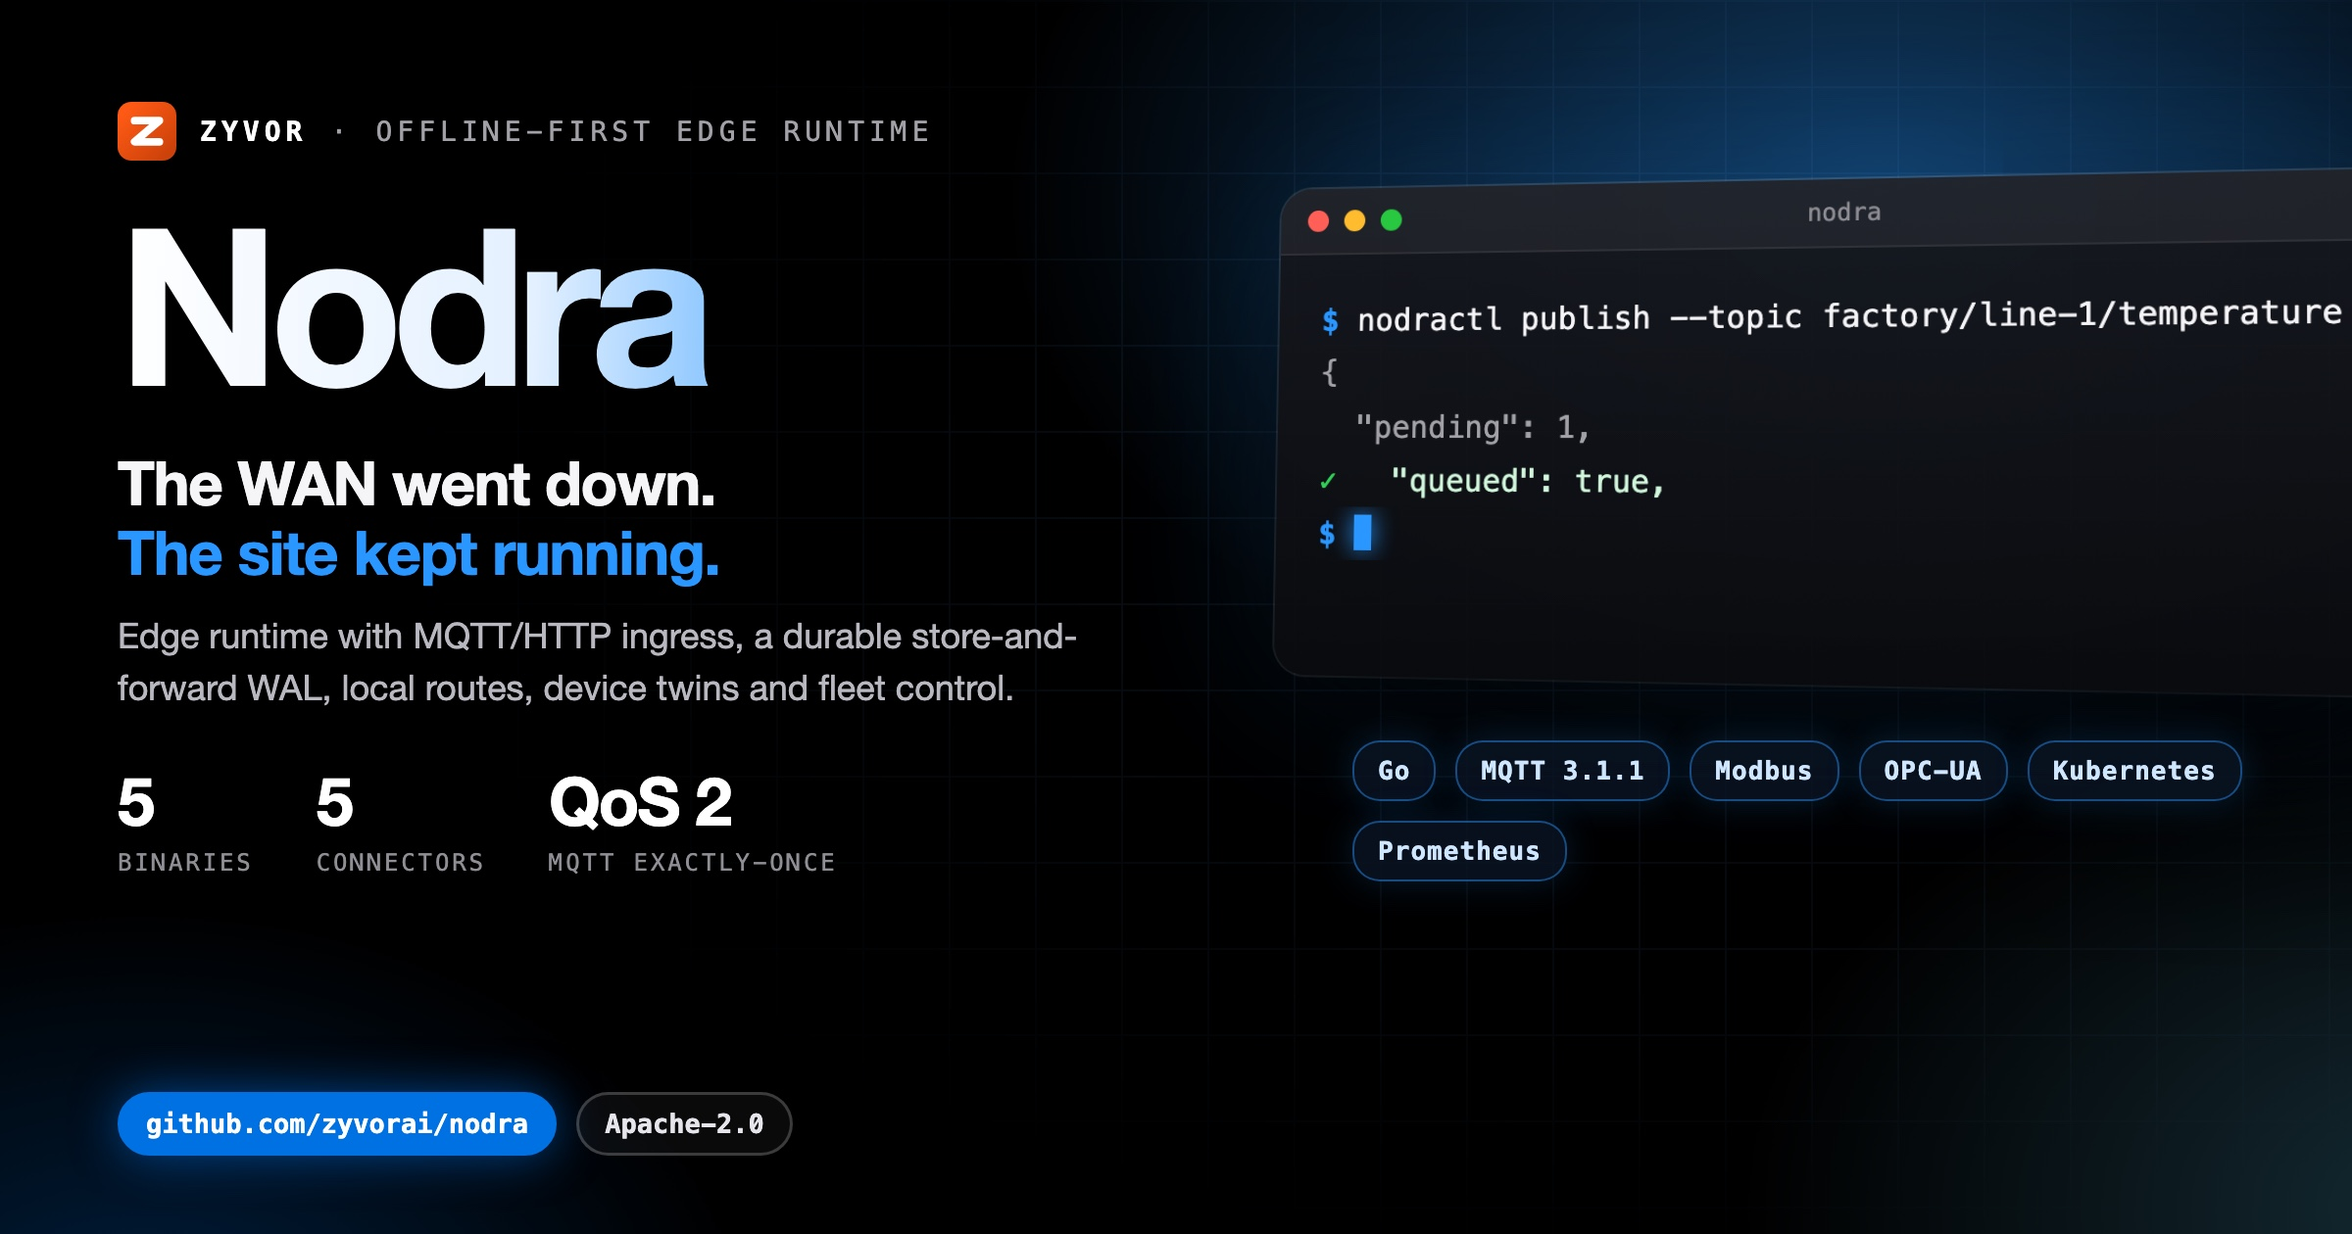
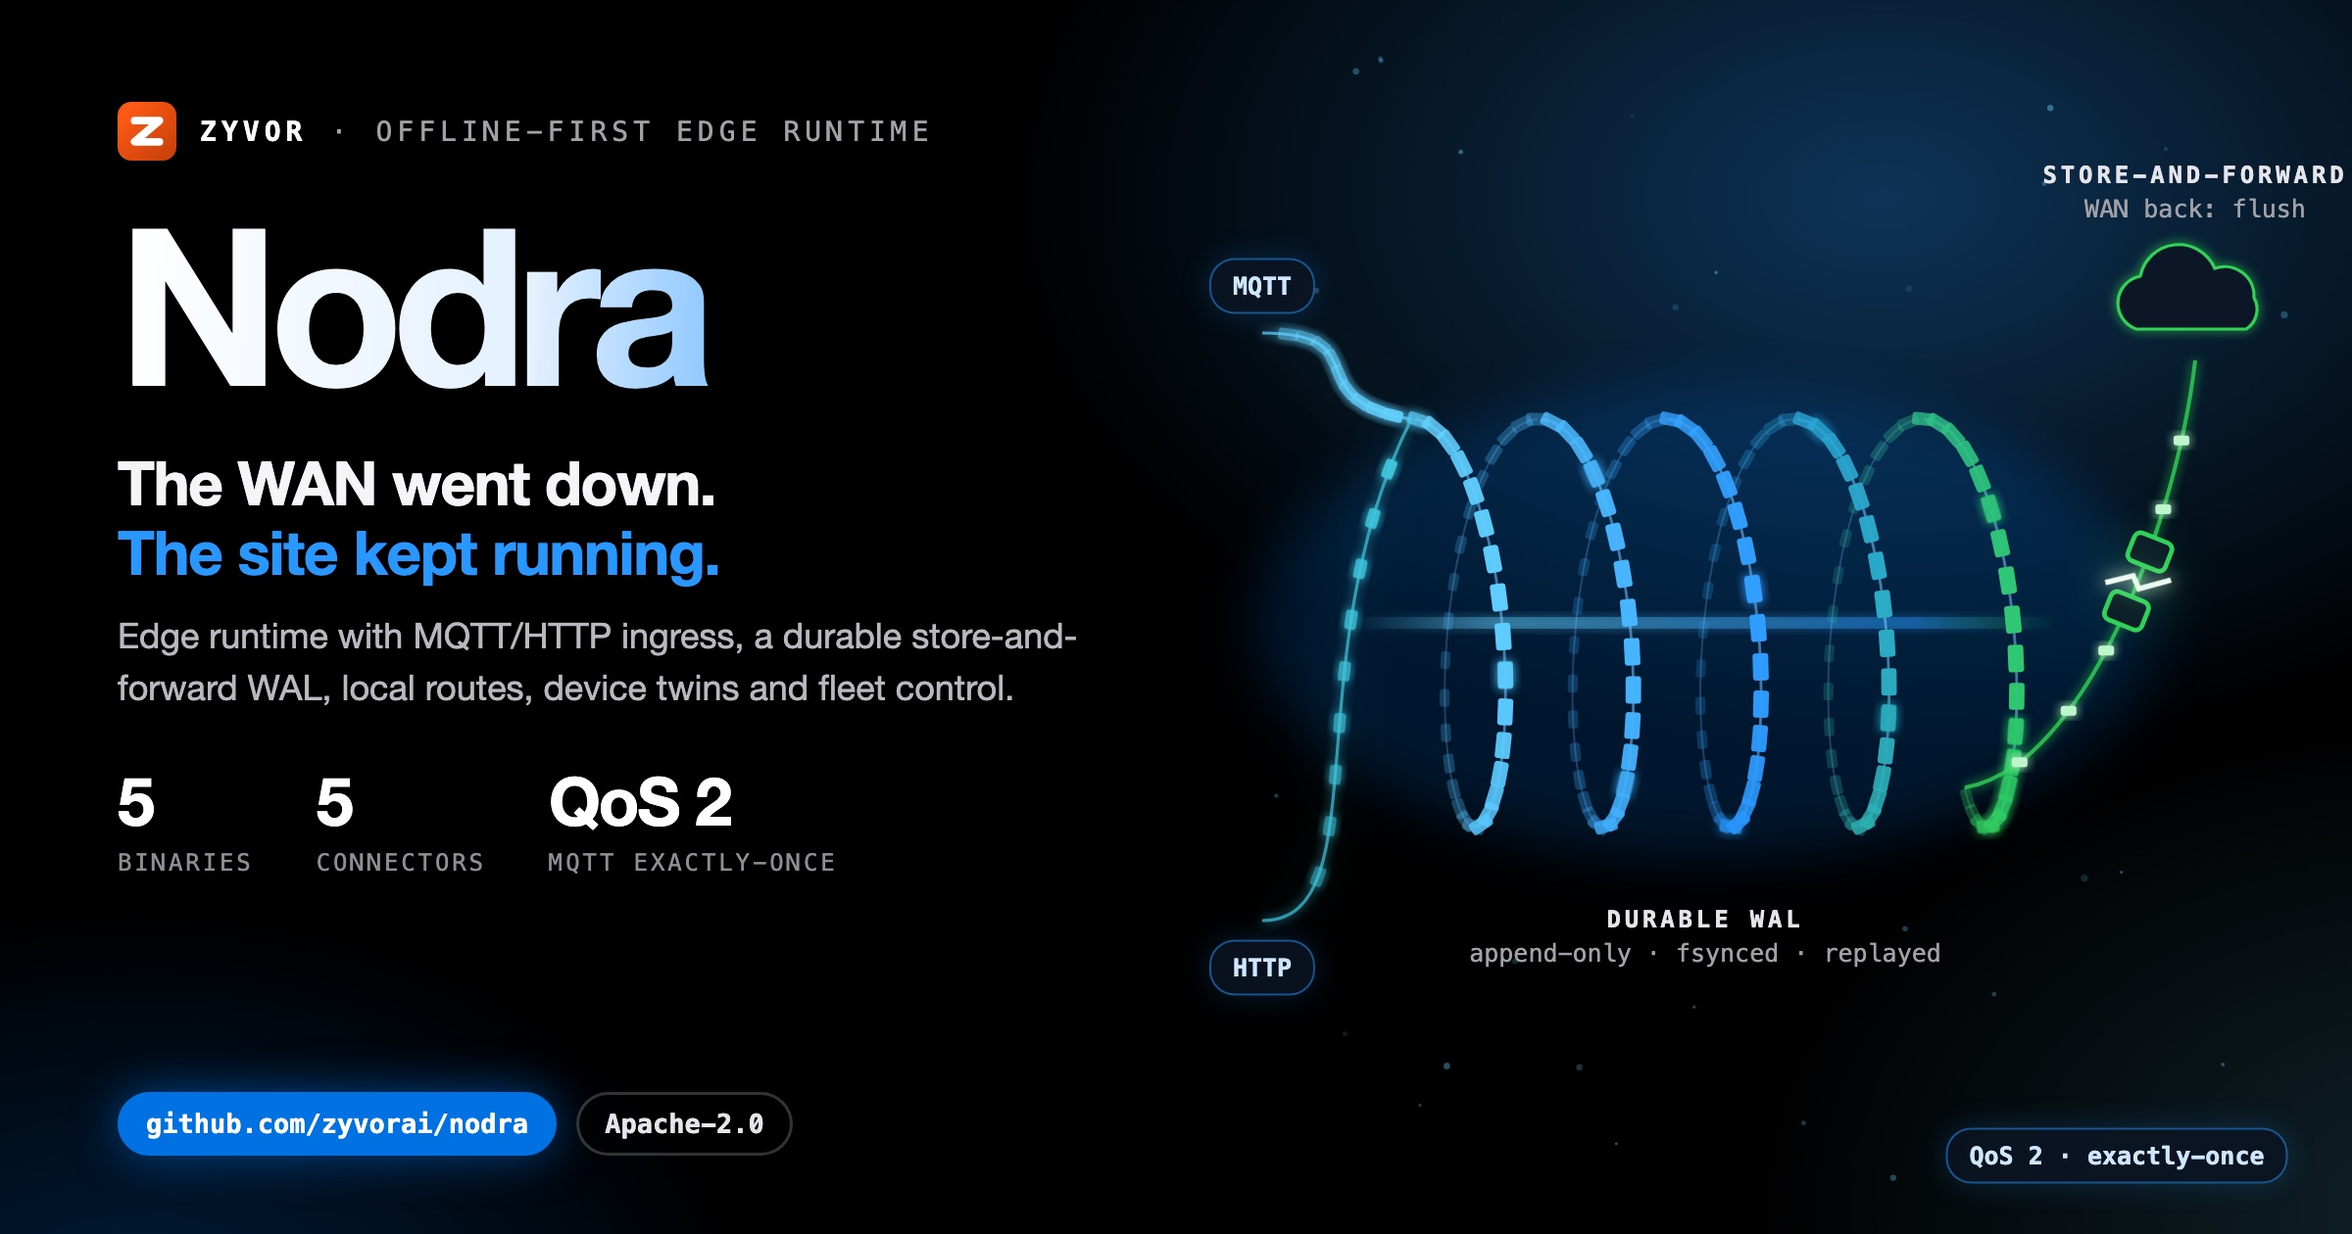
docs(social): unique illustrated hero card
Replace the shared terminal-window art with a motif drawn for this project;
same verified copy and stats on the left.

Changed region(s): [[0.5, 0.1238, 1.0, 0.8048], [0.8125, 0.8976, 0.9688, 0.9595]]

diff --git a/docs/social/nodra-hero-dark.html b/docs/social/nodra-hero-dark.html
@@ -8,58 +8,47 @@
   Build: ./docs/social/build-hero-dark.sh  ->  nodra-hero-dark.jpg (2400x1260)
 -->
 <style>
-  :root { --blue:#0071e3; --signal:#2997ff; --cyan:#64d2ff; --green:#30d158; --amber:#ff9f0a;
+  :root { --blue:#0071e3; --signal:#2997ff; --cyan:#64d2ff; --green:#30d158; --amber:#ff9f0a; --red:#ff453a; --violet:#bf5af2;
     --sans:'SF Pro Display','Helvetica Neue',Helvetica,Arial,sans-serif; --mono:'SF Mono',Menlo,Consolas,monospace; }
   * { box-sizing:border-box; }
   html,body { margin:0; padding:0; }
   body { width:1200px; height:630px; overflow:hidden; color:#f5f5f7; font-family:var(--sans); position:relative; background:#000; }
   .aurora { position:absolute; inset:0;
-    background:radial-gradient(720px 460px at 80% 16%, rgba(41,151,255,.40), transparent 62%),
-               radial-gradient(600px 420px at 104% 98%, rgba(100,210,255,.20), transparent 60%),
+    background:radial-gradient(720px 460px at 80% 16%, rgba(41,151,255,.34), transparent 62%),
+               radial-gradient(600px 420px at 104% 98%, rgba(100,210,255,.16), transparent 60%),
                radial-gradient(520px 380px at 6% 110%, rgba(0,113,227,.28), transparent 60%); }
-  .grid { position:absolute; inset:0; opacity:.09;
-    background-image:linear-gradient(rgba(120,180,255,.9) 1px,transparent 1px),linear-gradient(90deg,rgba(120,180,255,.9) 1px,transparent 1px);
-    background-size:44px 44px; -webkit-mask-image:radial-gradient(900px 520px at 72% 42%, #000 18%, transparent 75%); }
-  .left { position:absolute; left:60px; top:52px; width:560px; z-index:3; }
+  .copy { position:absolute; left:60px; top:52px; width:560px; z-index:3; }
   .brand { display:flex; align-items:center; gap:12px; font-family:var(--mono); font-size:14px; letter-spacing:.18em; text-transform:uppercase; color:#a1a1a6; }
   .brand b { color:#fff; }
   .word { margin:20px 0 0; font-size:112px; line-height:.95; font-weight:800; letter-spacing:-.05em; white-space:nowrap;
     background:linear-gradient(92deg,#fff 0%,#e3f0ff 38%,var(--signal) 74%,var(--cyan) 100%); -webkit-background-clip:text; background-clip:text; color:transparent; padding-bottom:6px; }
   .tag { margin:14px 0 0; font-size:31px; line-height:1.15; font-weight:700; letter-spacing:-.02em; }
   .tag em { font-style:normal; color:var(--signal); }
-  .lede { margin:12px 0 0; font-size:18px; line-height:1.45; color:#b8b8bf; width:520px; }
+  .lede { margin:12px 0 0; font-size:18px; line-height:1.45; color:#b8b8bf; width:520px; text-shadow:0 1px 12px #000; }
   .stats { margin-top:24px; display:flex; gap:32px; }
   .stat b { display:block; font-size:34px; font-weight:800; letter-spacing:-.03em; color:#fff; }
   .stat span { font-family:var(--mono); font-size:12px; letter-spacing:.12em; text-transform:uppercase; color:#8e8e93; }
   .pill { position:absolute; left:60px; bottom:40px; display:flex; gap:10px; z-index:3; }
-  .pill span { font-family:var(--mono); font-size:13.5px; font-weight:700; padding:7px 13px; border-radius:18px; border:1.5px solid rgba(255,255,255,.2); color:#e5e5ea; background:rgba(255,255,255,.04); }
+  .pill span { font-family:var(--mono); font-size:13.5px; font-weight:700; padding:7px 13px; border-radius:18px; border:1.5px solid rgba(255,255,255,.2); color:#e5e5ea; background:rgba(0,0,0,.6); }
   .pill span.b { background:var(--blue); border-color:var(--blue); color:#fff; box-shadow:0 0 24px rgba(0,113,227,.55); }
-
-  .right { position:absolute; left:652px; top:96px; width:560px; z-index:2; }
-  .win { position:relative; width:560px; border-radius:16px; overflow:hidden; z-index:2;
-    background:linear-gradient(180deg, rgba(22,24,30,.94), rgba(10,11,14,.96));
-    box-shadow:0 50px 100px rgba(0,0,0,.75), 0 0 0 1px rgba(255,255,255,.14), 0 0 90px rgba(41,151,255,.22);
-    transform:perspective(1600px) rotateY(-14deg) rotateX(4deg); transform-origin:left center; }
-  .bar { height:34px; display:flex; align-items:center; gap:8px; padding:0 14px; background:rgba(255,255,255,.05); border-bottom:1px solid rgba(255,255,255,.07); }
-  .bar i { width:11px; height:11px; border-radius:50%; background:#ff5f57; } .bar i:nth-child(2){background:#febc2e} .bar i:nth-child(3){background:#28c840}
-  .bar em { margin-left:auto; margin-right:auto; font-style:normal; font-family:var(--mono); font-size:12px; color:#8e8e93; transform:translateX(-24px); }
-  .term { min-height:214px; padding:20px 22px 24px; font-family:var(--mono); font-size:15.5px; line-height:1.75; }
-  .l { white-space:pre; overflow:hidden; text-overflow:ellipsis; color:#f5f5f7; }
-  .l .p { color:var(--signal); font-weight:700; }
-  .l.out { color:#a1a1a6; }
-  .l.cm { color:#6e6e73; }
-  .l.ok { color:#d1f7dc; } .l.ok span { color:var(--green); font-weight:700; }
-  .l.warn { color:#ffe1b0; } .l.warn span { color:var(--amber); font-weight:700; }
-  .cur { display:inline-block; width:9px; height:18px; background:var(--signal); vertical-align:-3px; box-shadow:0 0 12px var(--signal); }
-  .chips { margin:34px 0 0 38px; width:480px; display:flex; flex-wrap:wrap; gap:10px; position:relative; z-index:3; }
-  .chips span { font-family:var(--mono); font-size:13px; font-weight:700; letter-spacing:.04em; padding:7px 12px; border-radius:14px;
-    color:#cfe6ff; background:rgba(10,20,35,.82); border:1px solid rgba(41,151,255,.45); box-shadow:0 0 18px rgba(41,151,255,.18); }
+  .art { position:absolute; left:520px; top:0; width:680px; height:630px; z-index:2; }
+  .art svg { display:block; }
+  #labels { position:absolute; inset:0; z-index:4; pointer-events:none; }
+  .lbl { position:absolute; font-family:var(--mono); font-size:12.5px; color:#a1a1a6; text-align:center; transform:translate(-50%,-50%); white-space:nowrap; }
+  .lbl b { display:block; font-size:12px; letter-spacing:.16em; text-transform:uppercase; color:#e5e5ea; }
+  .lbl span { display:block; margin-top:3px; }
+  .lbl.box { padding:7px 12px; border-radius:12px; background:rgba(8,10,14,.85); border:1px solid rgba(255,255,255,.14); }
+  .lbl.chip { padding:6px 11px; border-radius:13px; font-size:12.5px; font-weight:700; color:#cfe6ff; background:rgba(10,20,35,.85); border:1px solid rgba(41,151,255,.5); box-shadow:0 0 16px rgba(41,151,255,.2); }
+  .lbl.left { transform:translate(0,-50%); text-align:left; }
+  .lbl.right { transform:translate(-100%,-50%); text-align:right; }
+  .ok { color:var(--green) !important; } .warn { color:var(--amber) !important; } .bad { color:var(--red) !important; } .sig { color:var(--signal) !important; } .cy { color:var(--cyan) !important; } .vi { color:var(--violet) !important; }
 </style>
 </head>
 <body>
 <div class="aurora"></div>
-<div class="grid"></div>
-<div class="left">
+<div class="art"><svg id="art" width="680" height="630" viewBox="0 0 680 630" xmlns="http://www.w3.org/2000/svg"></svg></div>
+<div id="labels"></div>
+<div class="copy">
   <div class="brand"><svg viewBox="0 0 64 64" width="30" height="30" aria-hidden="true"><defs><linearGradient id="zb" x1="8" y1="8" x2="56" y2="56" gradientUnits="userSpaceOnUse"><stop offset="0" stop-color="#ff5a15"/><stop offset="1" stop-color="#cc420a"/></linearGradient></defs><rect width="64" height="64" rx="15" fill="url(#zb)"/><path d="M18.5,20.5 45.5,20.5 18.5,43.5 45.5,43.5" fill="none" stroke="#fff" stroke-width="8.3" stroke-linecap="round" stroke-linejoin="round"/></svg><b>Zyvor</b><span>&middot;</span><span>Offline-first edge runtime</span></div>
   <div class="word">Nodra</div>
   <div class="tag">The WAN went down.<br><em>The site kept running.</em></div>
@@ -67,8 +56,114 @@
   <div class="stats"><div class="stat"><b>5</b><span>binaries</span></div><div class="stat"><b>5</b><span>connectors</span></div><div class="stat"><b>QoS 2</b><span>MQTT exactly-once</span></div></div>
 </div>
 <div class="pill"><span class="b">github.com/zyvorai/nodra</span><span>Apache-2.0</span></div>
-<div class="right"><div class="win"><div class="bar"><i></i><i></i><i></i><em>nodra</em></div>
-<div class="term"><div class="l"><span class="p">$</span> nodractl publish --topic factory/line-1/temperature</div><div class="l out">{</div><div class="l out">  &quot;pending&quot;: 1,</div><div class="l ok"><span>&#10003;</span>   &quot;queued&quot;: true,</div><div class="l"><span class="p">$</span> <i class="cur"></i></div></div></div>
-<div class="chips"><span>Go</span><span>MQTT 3.1.1</span><span>Modbus</span><span>OPC-UA</span><span>Kubernetes</span><span>Prometheus</span></div></div>
+<script>
+var Z = (function () {
+  var NS = 'http://www.w3.org/2000/svg', svg = document.getElementById('art'), labels = document.getElementById('labels');
+  var seed = 20261004;
+  function rnd() { seed = (seed * 1103515245 + 12345) % 2147483648; return seed / 2147483648; }
+  function el(tag, a, parent) { var n = document.createElementNS(NS, tag); for (var k in a) n.setAttribute(k, a[k]); (parent || svg).appendChild(n); return n; }
+  function g(attrs) { return el('g', attrs || {}); }
+  function label(x, y, inner, cls, style) { var d = document.createElement('div'); d.className = 'lbl ' + (cls || ''); d.style.left = (520 + x) + 'px'; d.style.top = y + 'px'; if (style) d.setAttribute('style', d.getAttribute('style') + ';' + style); d.innerHTML = inner; labels.appendChild(d); return d; }
+  return { NS: NS, svg: svg, W: 680, H: 630, rnd: rnd, el: el, g: g, label: label,
+    reseed: function (s) { seed = s; },
+    c: { blue: '#0071e3', signal: '#2997ff', cyan: '#64d2ff', green: '#30d158', amber: '#ff9f0a', red: '#ff453a', violet: '#bf5af2', teal: '#40c8e0', indigo: '#5e5ce6', pink: '#ff375f', white: '#f5f5f7', grey: '#8e8e93' } };
+})();
+(function () {
+// Nodra: the write-ahead log as a glowing coil of records. MQTT and HTTP feed the near end; when the WAN link
+// returns, store-and-forward flushes the far end out to the cloud.
+var C = Z.c, PI = Math.PI, mono = 'ui-monospace, SFMono-Regular, Menlo, monospace';
+var ax0 = 200, ax1 = 500, ay = 318, R = 104, tilt = 30, turns = 4.6;
+var defs = Z.el('defs', {});
+defs.innerHTML = '<filter id="nd-gl" x="-50%" y="-50%" width="200%" height="200%"><feGaussianBlur stdDeviation="2.6" result="b"/><feMerge><feMergeNode in="b"/><feMergeNode in="SourceGraphic"/></feMerge></filter>' +
+  '<filter id="nd-sf" x="-50%" y="-50%" width="200%" height="200%"><feGaussianBlur stdDeviation="14"/></filter>' +
+  '<linearGradient id="nd-core" x1="0" y1="0" x2="1" y2="0"><stop offset="0" stop-color="#64d2ff" stop-opacity=".0"/><stop offset=".2" stop-color="#64d2ff" stop-opacity=".35"/><stop offset=".8" stop-color="#2997ff" stop-opacity=".35"/><stop offset="1" stop-color="#30d158" stop-opacity=".0"/></linearGradient>';
+function f(v) { return v.toFixed(1); }
+function txt(x, y, s, fill, size, anchor) {
+  var t = Z.el('text', { x: f(x), y: f(y), fill: fill, 'font-family': mono, 'font-size': size, 'text-anchor': anchor || 'middle', 'letter-spacing': '.06em' });
+  t.textContent = s; return t;
+}
+function lerp(a, b, t) { return a + (b - a) * t; }
+function mix(c0, c1, t) {
+  var a = [parseInt(c0.substr(1, 2), 16), parseInt(c0.substr(3, 2), 16), parseInt(c0.substr(5, 2), 16)];
+  var b = [parseInt(c1.substr(1, 2), 16), parseInt(c1.substr(3, 2), 16), parseInt(c1.substr(5, 2), 16)];
+  return 'rgb(' + a.map(function (v, i) { return Math.round(lerp(v, b[i], t)); }).join(',') + ')';
+}
+// helix point for u in [0,1]
+function H(u) {
+  var th = u * turns * 2 * PI;
+  return { x: lerp(ax0, ax1, u) + tilt * Math.sin(th), y: ay - R * Math.cos(th), z: Math.sin(th), th: th };
+}
+
+// soft core glow along the axis
+Z.el('ellipse', { cx: (ax0 + ax1) / 2, cy: ay, rx: 230, ry: 120, fill: '#0071e3', opacity: .2, filter: 'url(#nd-sf)' });
+Z.el('rect', { x: ax0 - 30, y: ay - 3, width: ax1 - ax0 + 60, height: 6, rx: 3, fill: 'url(#nd-core)', filter: 'url(#nd-gl)' });
+
+// records along the helix: draw back half first, then front half
+var NR = 150, recs = [];
+for (var i = 0; i < NR; i++) {
+  var u = (i + 0.5) / NR, p = H(u), q = H(u + 0.002);
+  recs.push({ u: u, p: p, ang: Math.atan2(q.y - p.y, q.x - p.x) * 180 / PI });
+}
+function colourAt(u) { return u < 0.55 ? mix('#64d2ff', '#2997ff', u / 0.55) : mix('#2997ff', '#30d158', (u - 0.55) / 0.45); }
+[false, true].forEach(function (front) {
+  // continuous wire behind the tiles
+  var segs = [];
+  for (var i = 0; i <= 600; i++) { var p = H(i / 600); if ((p.z > 0) === front) segs.push((segs.length && segs._last === i - 1 ? ' L' : ' M') + f(p.x) + ',' + f(p.y)); if ((p.z > 0) === front) segs._last = i; }
+  Z.el('path', { d: segs.join(''), fill: 'none', stroke: front ? 'rgba(120,200,255,.55)' : 'rgba(120,185,255,.26)', 'stroke-width': front ? 1.4 : 1 });
+  recs.forEach(function (r, k) {
+    if ((r.p.z > 0) !== front) return;
+    var depth = (r.p.z + 1) / 2, col = colourAt(r.u);
+    var w = 9 + depth * 5, h = 5 + depth * 3;
+    var flushed = r.u > 0.94;
+    Z.el('rect', { x: f(-w / 2), y: f(-h / 2), width: f(w), height: f(h), rx: 1.6,
+      fill: col, opacity: (front ? 0.55 + depth * 0.45 : 0.22 + depth * 0.3).toFixed(2),
+      transform: 'translate(' + f(r.p.x) + ',' + f(r.p.y) + ') rotate(' + f(r.ang) + ')',
+      filter: front && (k % 9 === 0 || flushed) ? 'url(#nd-gl)' : null });
+  });
+});
+
+// ingress: MQTT and HTTP streams curling into the near end of the coil
+var start = H(0);
+[{ y: 170, n: 'MQTT', c: C.cyan }, { y: 470, n: 'HTTP', c: C.teal }].forEach(function (s, k) {
+  var sx = 124, d = 'M' + sx + ',' + s.y + ' C' + (sx + 60) + ',' + s.y + ' ' + f(start.x - 60) + ',' + f(start.y + (k ? 120 : -10)) + ' ' + f(start.x) + ',' + f(start.y);
+  Z.el('path', { d: d, fill: 'none', stroke: s.c, 'stroke-width': 6, opacity: .12, filter: 'url(#nd-sf)' });
+  Z.el('path', { d: d, fill: 'none', stroke: s.c, 'stroke-width': 1.6, opacity: .75, filter: 'url(#nd-gl)' });
+  var el = Z.el('path', { d: d, fill: 'none', stroke: 'none' }), L = el.getTotalLength();
+  for (var i = 0; i < 9; i++) {
+    var q = el.getPointAtLength(L * (0.14 + i * 0.095)), q2 = el.getPointAtLength(L * (0.14 + i * 0.095) + 1);
+    Z.el('rect', { x: -5, y: -3, width: 10, height: 6, rx: 1.6, fill: s.c, opacity: (0.55 + i * 0.05).toFixed(2), filter: 'url(#nd-gl)', transform: 'translate(' + f(q.x) + ',' + f(q.y) + ') rotate(' + f(Math.atan2(q2.y - q.y, q2.x - q.x) * 180 / PI) + ')' });
+  }
+  Z.label(sx, s.y + (k ? 24 : -24), s.n, 'chip');
+});
+
+// egress: flush from the far end over a restored WAN link to the cloud
+var end = H(1), cxp = 600, cyp = 150;
+var ed = 'M' + f(end.x) + ',' + f(end.y) + ' C' + f(end.x + 60) + ',' + f(end.y - 10) + ' ' + f(cxp - 10) + ',' + f(cyp + 120) + ' ' + f(cxp) + ',' + f(cyp + 34);
+var eel = Z.el('path', { d: ed, fill: 'none', stroke: 'none' }), EL = eel.getTotalLength();
+Z.el('path', { d: ed, fill: 'none', stroke: C.green, 'stroke-width': 2, opacity: .85, filter: 'url(#nd-gl)' });
+// the healed break in the link
+var bk = eel.getPointAtLength(EL * 0.55);
+var bk2 = eel.getPointAtLength(EL * 0.55 + 1), ba = Math.atan2(bk2.y - bk.y, bk2.x - bk.x) * 180 / PI;
+var bg = Z.g({ transform: 'translate(' + f(bk.x) + ',' + f(bk.y) + ') rotate(' + f(ba) + ') scale(1.7)' });
+Z.el('rect', { x: -14, y: -6, width: 9, height: 12, rx: 2, fill: '#0b1626', stroke: C.green, 'stroke-width': 1.4 }, bg);
+Z.el('rect', { x: 5, y: -6, width: 9, height: 12, rx: 2, fill: '#0b1626', stroke: C.green, 'stroke-width': 1.4 }, bg);
+Z.el('path', { d: 'M-4,-9 L1,-2 L-2,1 L4,9', fill: 'none', stroke: '#fff', 'stroke-width': 1.6, filter: 'url(#nd-gl)' }, bg);
+Z.el('circle', { cx: f(bk.x), cy: f(bk.y), r: 18, fill: C.green, opacity: .18, filter: 'url(#nd-sf)' });
+for (var i = 0; i < 5; i++) {
+  var q = eel.getPointAtLength(EL * [0.12, 0.26, 0.4, 0.7, 0.84][i]);
+  Z.el('rect', { x: f(q.x - 4), y: f(q.y - 2.5), width: 8, height: 5, rx: 1.4, fill: '#bff5cc', filter: 'url(#nd-gl)' });
+}
+// cloud glyph
+var cg = Z.g({ transform: 'translate(' + cxp + ',' + cyp + ')' });
+Z.el('path', { d: 'M-30,18 a14,14 0 0 1 2,-27 a20,20 0 0 1 38,-4 a15,15 0 0 1 20,15 a12,12 0 0 1 -4,16 z', fill: '#0b1626', stroke: C.green, 'stroke-width': 1.6, filter: 'url(#nd-gl)' }, cg);
+Z.label(cxp, cyp - 52, '<b>store-and-forward</b><span>WAN back: flush</span>');
+
+// WAL hub label under the coil
+Z.label((ax0 + ax1) / 2, ay + R + 56, '<b>durable WAL</b><span>append-only &middot; fsynced &middot; replayed</span>');
+Z.label(560, 590, 'QoS 2 &middot; exactly-once', 'chip');
+
+for (var i = 0; i < 40; i++) { var x = 130 + Z.rnd() * 520, y = 24 + Z.rnd() * 580; if (Math.abs(y - ay) < R + 30 && x > ax0 - 40 && x < ax1 + 40) continue; Z.el('circle', { cx: f(x), cy: f(y), r: (0.7 + Z.rnd() * 1.2).toFixed(1), fill: C.cyan, opacity: (0.1 + Z.rnd() * 0.35).toFixed(2) }); }
+})();
+</script>
 </body>
 </html>
